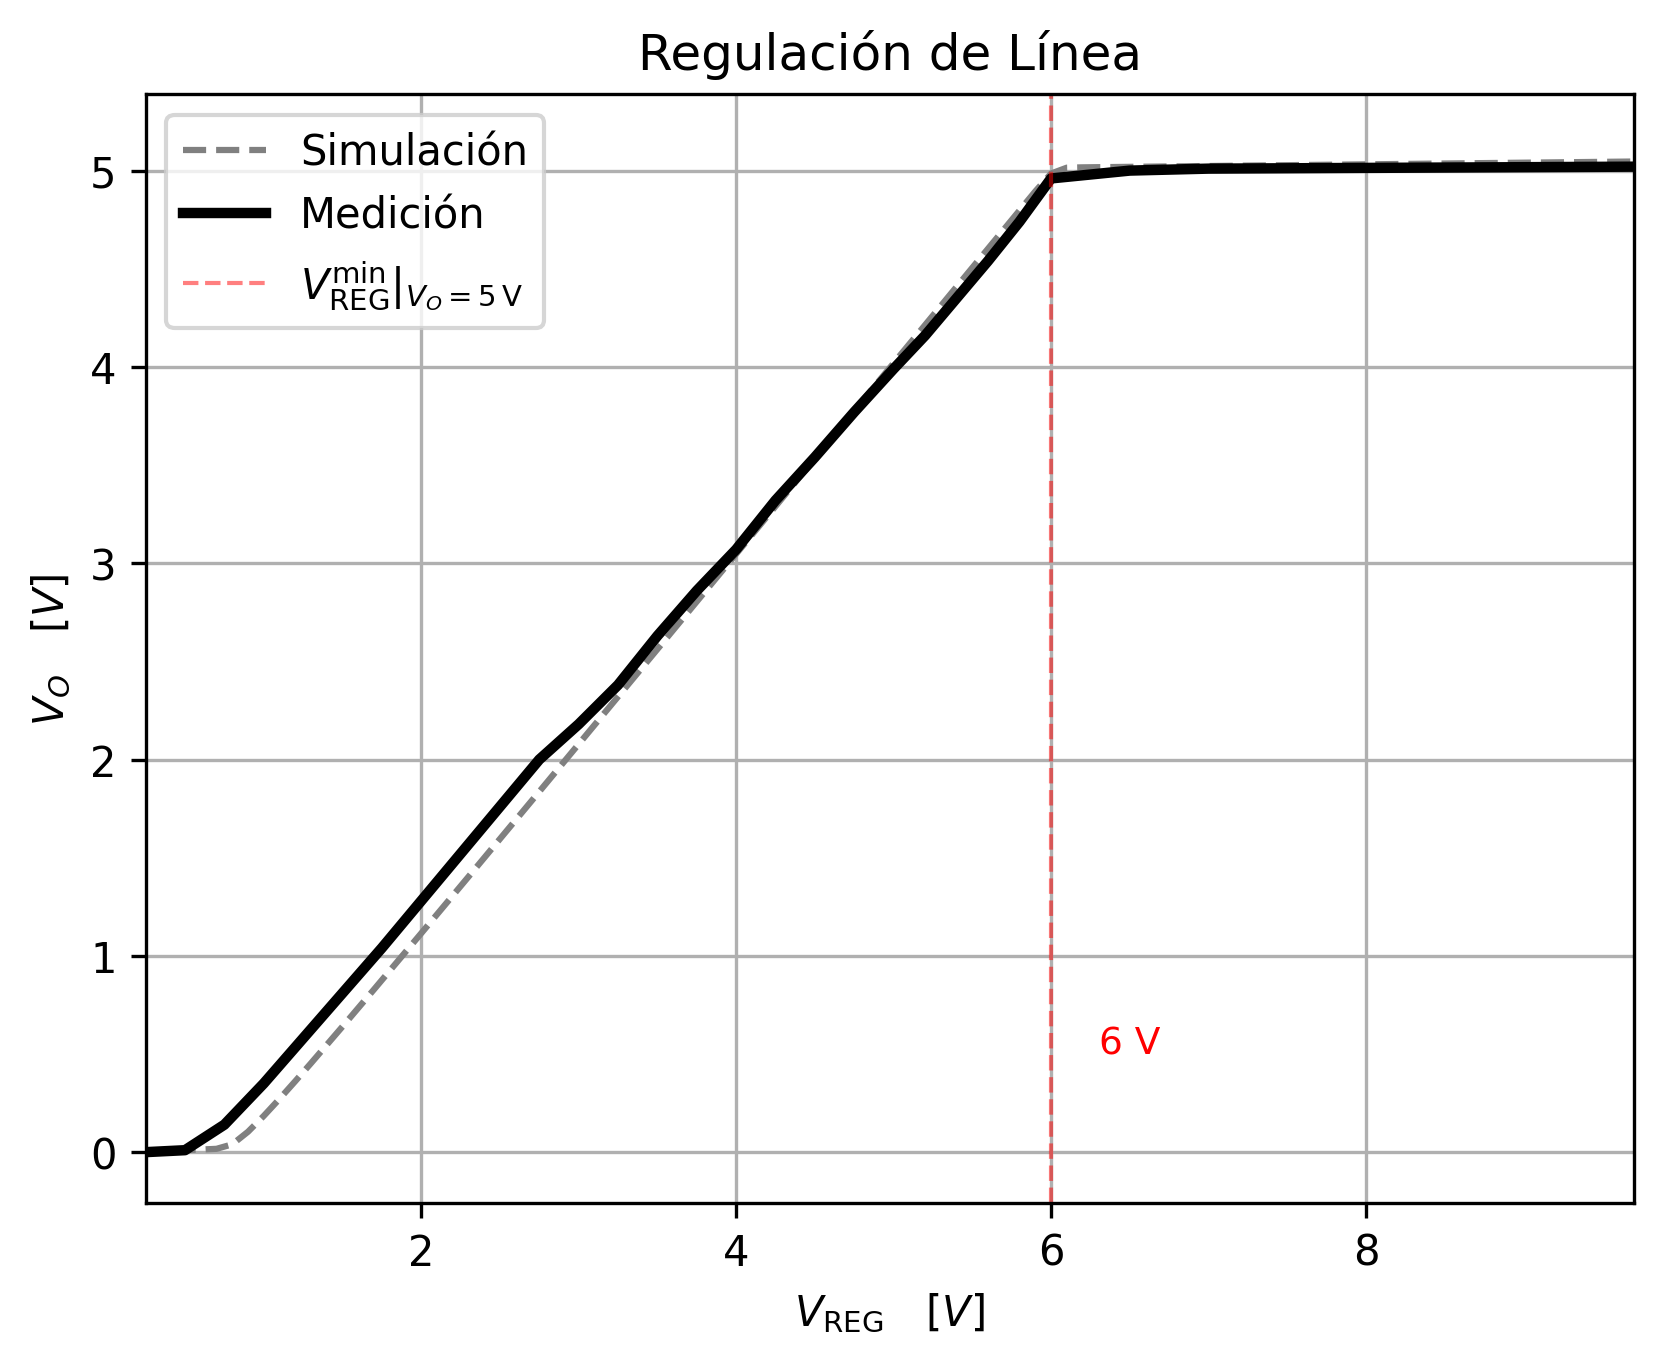
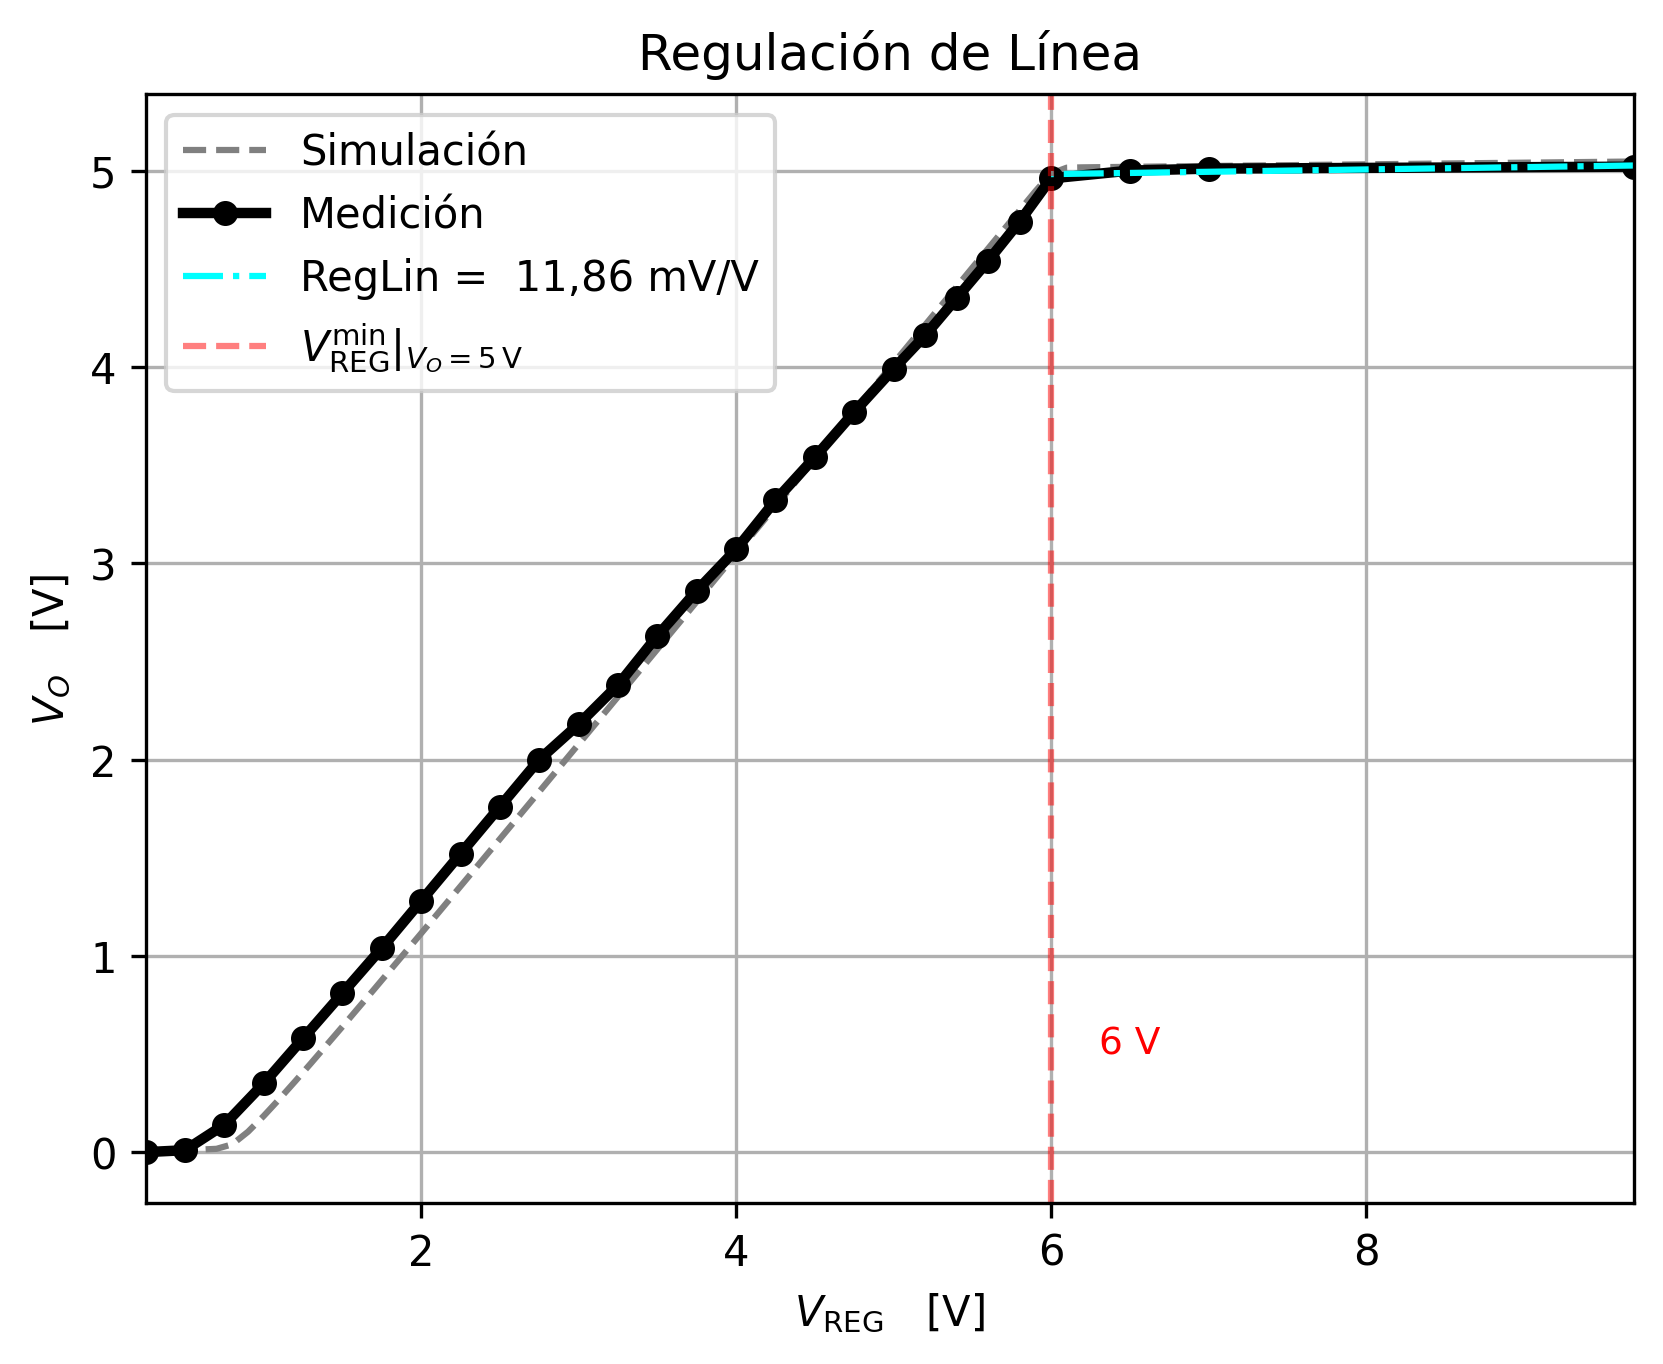
Modif. Reg_Lin 2

diff --git a/Checkpoint 3/Códigos informe/Regulacion de linea.py b/Checkpoint 3/Códigos informe/Regulacion de linea.py
@@ -31,19 +31,34 @@ df = df.dropna(subset=["Vreg", "Vo"])
 Vreg_medida = df["Vreg"].to_numpy()
 Vo_medida   = df["Vo"].to_numpy()
 
+# ============================================================
+# AJUSTE LINEAL EN LA ZONA REGULADA
+# ============================================================
+
+mask = Vreg_medida >= 6
+
+x_fit = Vreg_medida[mask]
+y_fit = Vo_medida[mask]
+
+# ajuste lineal y = m*x + b
+m, b = np.polyfit(x_fit, y_fit, 1)
+
+# recta ajustada
+y_ajuste = m*x_fit + b
 
 plt.figure()
 
 plt.plot(Vreg_simu, Vo_simu[:, 0], color = 'grey', label='Simulación', linestyle='--')
-plt.plot(Vreg_medida, Vo_medida, color = 'black', label='Medición', linewidth=2.5)
+plt.plot(Vreg_medida, Vo_medida, color = 'black', label='Medición', linewidth=2.5, marker='o', markersize=5)
+plt.plot(x_fit, y_ajuste, color='cyan', linewidth=1.5, linestyle='-.', label=f'RegLin =  {m*1000:.2f} mV/V'.replace('.', ','))
 
-plt.xlabel(f'$V_\mathrm{{REG}} \quad [V]$')
+plt.xlabel(r'$V_\mathrm{{REG}} \quad [\mathrm{V}]$')
 plt.xlim(np.min(Vreg_medida), np.max(Vreg_medida))
-plt.axvline(x = 6, linestyle = '--', color='red', linewidth=1, label=f'$V_\mathrm{{REG}}^\mathrm{{min}}|_{{V_{{O}} = 5\,\mathrm{{V}}}}$', alpha = 0.5)
+plt.axvline(x = 6, linestyle = '--', color='red', linewidth=1.5, label=r'$V_\mathrm{{REG}}^\mathrm{{min}}|_{{V_{{O}} = 5\,\mathrm{{V}}}}$', alpha = 0.5)
 plt.text(6.5, 0.5, '6 V', ha='center', fontsize=9, color='red')
 plt.legend()
 
-plt.ylabel(f'$V_{{O}} \quad [V]$')
+plt.ylabel(r'$V_{{O}} \quad [\mathrm{V}]$')
 
 plt.title("Regulación de Línea")
 plt.grid()